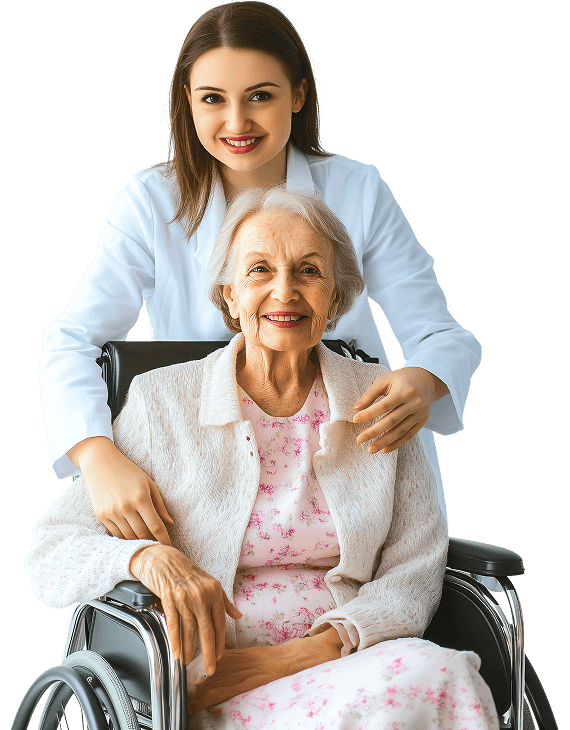
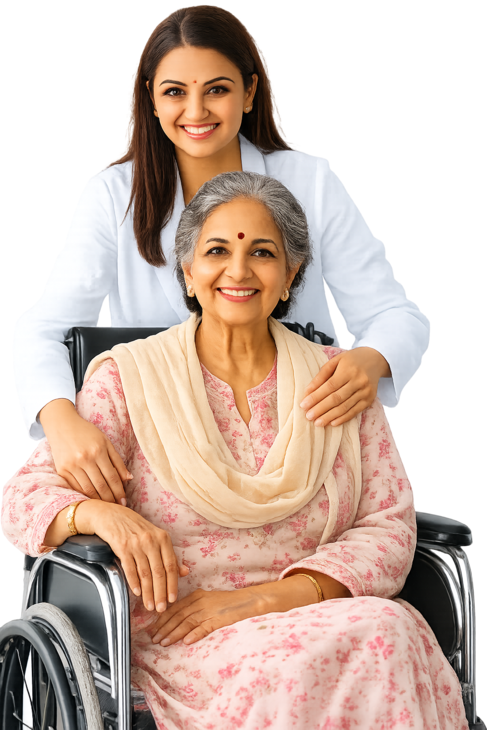
commit 6

diff --git a/index.html b/index.html
@@ -7,28 +7,28 @@
     <meta name="viewport" content="width=device-width, initial-scale=1, shrink-to-fit=no">
 
     <!-- Primary SEO -->
-    <title>Amritha Senior Living | Assisted Living & Rehabilitation Centre in Hyderabad</title>
+    <title>Amritha Elder Care | Assisted Living & Rehabilitation Centre in Hyderabad</title>
 
-    <meta name="description" content="Amritha Senior Living in Gachibowli, Hyderabad offers premium assisted living, elder care, active senior living and advanced medical rehabilitation including neurological, orthopaedic and oncology rehabilitation. Compassionate, dignified and personalized senior care.">
+    <meta name="description" content="Amritha Elder Care in Gachibowli, Hyderabad offers premium assisted living, elder care, active Elder Care and advanced medical rehabilitation including neurological, orthopaedic and oncology rehabilitation. Compassionate, dignified and personalized senior care.">
 
-    <meta name="keywords" content="Amritha Senior Living, senior living Hyderabad, assisted living Hyderabad, elder care Hyderabad, senior care home Gachibowli, rehabilitation centre Hyderabad, neurological rehabilitation, oncology rehabilitation, orthopaedic rehabilitation, active senior living, elderly care Telangana">
+    <meta name="keywords" content="Amritha Elder Care, Elder Care Hyderabad, assisted living Hyderabad, elder care Hyderabad, senior care home Gachibowli, rehabilitation centre Hyderabad, neurological rehabilitation, oncology rehabilitation, orthopaedic rehabilitation, active Elder Care, elderly care Telangana">
 
-    <meta name="author" content="Amritha Senior Living">
+    <meta name="author" content="Amritha Elder Care">
     <meta name="robots" content="index, follow">
     <link rel="canonical" href="https://www.amrithahappyaging.com/">
 
     <!-- Open Graph (Facebook / LinkedIn) -->
     <meta property="og:type" content="website">
-    <meta property="og:title" content="Amritha Senior Living | Happy Aging & Elegant Living">
-    <meta property="og:description" content="A premium senior living and rehabilitation centre in Hyderabad offering assisted living, elder care, active senior living and specialized medical rehabilitation with dignity, comfort and compassion.">
+    <meta property="og:title" content="Amritha Elder Care | Happy Aging & Elegant Living">
+    <meta property="og:description" content="A premium Elder Care and rehabilitation centre in Hyderabad offering assisted living, elder care, active Elder Care and specialized medical rehabilitation with dignity, comfort and compassion.">
     <meta property="og:url" content="https://www.amrithahappyaging.com/">
     <meta property="og:image" content="https://www.amrithahappyaging.com/assets/images/og-amritha-senior-living.jpg">
-    <meta property="og:site_name" content="Amritha Senior Living">
+    <meta property="og:site_name" content="Amritha Elder Care">
 
     <!-- Twitter Card -->
     <meta name="twitter:card" content="summary_large_image">
-    <meta name="twitter:title" content="Amritha Senior Living | Assisted Living & Rehab in Hyderabad">
-    <meta name="twitter:description" content="Premium senior living & rehabilitation centre in Gachibowli, Hyderabad. Assisted living, elder care, oncology, neurological & orthopaedic rehabilitation.">
+    <meta name="twitter:title" content="Amritha Elder Care | Assisted Living & Rehab in Hyderabad">
+    <meta name="twitter:description" content="Premium Elder Care & rehabilitation centre in Gachibowli, Hyderabad. Assisted living, elder care, oncology, neurological & orthopaedic rehabilitation.">
     <meta name="twitter:image" content="https://www.amrithahappyaging.com/assets/images/og-amritha-senior-living.jpg">
 
     <!-- Local SEO (Google) -->
@@ -42,11 +42,11 @@
     {
       "@context": "https://schema.org",
       "@type": "MedicalOrganization",
-      "name": "Amritha Senior Living",
+      "name": "Amritha Elder Care",
       "url": "https://www.amrithahappyaging.com/",
       "logo": "https://www.amrithahappyaging.com/assets/images/amritha-logo.png",
       "image": "https://www.amrithahappyaging.com/assets/images/og-amritha-senior-living.jpg",
-      "description": "Amritha Senior Living offers assisted living, elder care, active senior living and advanced rehabilitation services in Hyderabad.",
+      "description": "Amritha Elder Care offers assisted living, elder care, active Elder Care and advanced rehabilitation services in Hyderabad.",
       "address": {
         "@type": "PostalAddress",
         "streetAddress": "NTR Crest Building, Door No. 2-56/17/GF, Adj to STAR Hypermarket, Gachibowli",
@@ -263,8 +263,8 @@
             </a>
             
             <p>
-                Amritha Senior Living is a purpose-driven senior care and rehabilitation centre dedicated to 
-                happy aging and elegant living. We provide assisted living, active senior living and specialized 
+                Amritha Elder Care is a purpose-driven senior care and rehabilitation centre dedicated to 
+                happy aging and elegant living. We provide assisted living, active Elder Care and specialized 
                 medical rehabilitation in a secure, compassionate and professionally managed environment.
             </p>
         </div>
@@ -382,10 +382,10 @@
         <div class="row align-items-end">
             <div class="col-xl-6">
                 <div class="banner-content" data-group="images" data-cues="slideInUp" data-duration="900">
-                    <span class="top-title">WELCOME TO AMRITHA SENIOR LIVING</span>
+                    <span class="top-title">WELCOME TO AMRITHA ELDER CARE</span>
                     <h1>Happy Aging & <span class="word-mark">Elegant</span> Living for Seniors</h1>
                     <p>
-                        Amritha Senior Living offers premium assisted living, active senior living and advanced 
+                        Amritha Elder Care offers premium assisted living, active Elder Care and advanced 
                         medical rehabilitation in a secure, compassionate and professionally managed environment 
                         where every senior lives with dignity, comfort and peace of mind.
                     </p>
@@ -409,8 +409,8 @@
             </div>
             <div class="col-xl-6">
                 <div class="banner-img" data-group="images" data-cues="slideInUp" data-duration="900">
-                    <span class="border-text">senior living</span>
-                    <img src="assets/images/banner-img.png" alt="banner-img">
+                    <span class="border-text">Elder Care</span>
+                    <img src="assets/images/banner-img.webp" alt="banner-img">
 
                     <div class="d-flex align-items-center info">
                         <!-- <div class="flex-shrink-0">
@@ -551,7 +551,7 @@
         <span class="monogram">
             <img src="assets/images/star.png" alt="monogram">
         </span>
-        <span class="monogram">Active & Independent Senior Living</span>
+        <span class="monogram">Active & Independent Elder Care</span>
         <span class="monogram">
             <img src="assets/images/star.png" alt="monogram">
         </span>
@@ -575,7 +575,7 @@
         <span class="monogram">
             <img src="assets/images/star.png" alt="monogram">
         </span>
-        <span class="monogram">Active & Independent Senior Living</span>
+        <span class="monogram">Active & Independent Elder Care</span>
         <span class="monogram">
             <img src="assets/images/star.png" alt="monogram">
         </span>
@@ -598,7 +598,7 @@
             </div>
             <div class="col-lg-8">
                 <h2 class="main-title mb-70 ms-auto mw-975">
-                    Comprehensive Senior Living & Rehabilitation Services Delivered With 
+                    Comprehensive Elder Care & Rehabilitation Services Delivered With 
                     <span class="word-mark">Care</span> and Compassion
                 </h2>
             </div>
@@ -623,7 +623,7 @@
                         </div>
                     </div>
                     <div class="flex-grow-1">
-                        <h3>Active Senior Living</h3>
+                        <h3>Active Elder Care</h3>
                     </div>
                 </a>
                 <a href="javascript:void(0);" class="d-flex align-items-center services-single-item text-decoration-none">
@@ -648,7 +648,7 @@
                         <div class="services-content">
                             <h3>Personalized Care That Nurtures Body, Mind and Spirit</h3>
                             <p>
-                                At Amritha Senior Living, our services are thoughtfully designed to support seniors
+                                At Amritha Elder Care, our services are thoughtfully designed to support seniors
                                 through assisted living, active community life and advanced rehabilitation, ensuring
                                 comfort, safety and emotional well-being at every stage.
                             </p>
@@ -740,7 +740,7 @@
             <div class="col-lg-8">
                 <div class="mb-60">
                     <h2 class="main-title ms-auto mw-975">
-                        Redefining Senior Living Through <span class="word-mark">Care</span>, Dignity and Purpose
+                        Redefining Elder Care Through <span class="word-mark">Care</span>, Dignity and Purpose
                     </h2>
                 </div>
             </div>
@@ -756,7 +756,7 @@
             <div class="col-xl-8">
                 <div class="about-content" data-cues="slideInUp" data-duration="900">
                     <p>
-                        Amritha Senior Living is a purpose-driven senior care and rehabilitation initiative founded by
+                        Amritha Elder Care is a purpose-driven senior care and rehabilitation initiative founded by
                         experienced professionals from healthcare and allied sectors. We are committed to creating
                         a secure, elegant and emotionally uplifting environment where seniors live with confidence,
                         respect and a sense of belonging.
@@ -783,7 +783,7 @@
                             <ul class="p-0 list-unstyled about-list">
                                 <li class="d-flex align-items-center gap-12">
                                     <img src="assets/images/check.png" alt="check">
-                                    <span>Assisted and active senior living with dignity</span>
+                                    <span>Assisted and active Elder Care with dignity</span>
                                 </li>
                                 <li class="d-flex align-items-center gap-12">
                                     <img src="assets/images/check.png" alt="check">
@@ -841,7 +841,7 @@
                         <img src="assets/images/amritha-logo.png" alt="logo" style="width: 285px;">
                     </div>
                     <div class="flex-grow-1">
-                        <h3>Supporting Happy Aging Through Compassionate Senior Living</h3>
+                        <h3>Supporting Happy Aging Through Compassionate Elder Care</h3>
                     </div>
                 </div>
             </div>
@@ -851,7 +851,7 @@
                         <i class="ti ti-headphones"></i>
                         <span>+91 92475 18681</span>
                     </a>
-                    <a href="javascript:void(0);" class="default-btn active">
+                    <a href="#contact" class="default-btn active">
                         <div class="d-flex align-items-center gap-10">
                             <span>Schedule a Visit</span>
                             <img src="assets/images/right.svg" alt="right">
@@ -874,7 +874,7 @@
             </div>
             <div class="col-lg-8">
                 <h2 class="main-title ms-auto mw-975">
-                    Discover Why Families Trust Amritha Senior Living for 
+                    Discover Why Families Trust Amritha Elder Care for 
                     <span class="word-mark">Happy Aging</span>
                 </h2>
             </div>
@@ -926,7 +926,7 @@
                         <span class="count">03</span>
                     </div>
                     <div class="flex-grow-1">
-                        <h3>Active & Engaged Senior Living</h3>
+                        <h3>Active & Engaged Elder Care</h3>
                     </div>
                 </div>
                 <p>
@@ -1029,11 +1029,11 @@
                 <div class="testimonial-content" data-cues="slideInUp" data-duration="900">
                     <span class="top-title mb-3">TESTIMONIAL</span>
                     <h2 class="main-title mb-3">
-                        What Families Say About <span class="word-mark">Amritha Senior Living</span>
+                        What Families Say About <span class="word-mark">Amritha Elder Care</span>
                     </h2>
 
                     <p>
-                        Families trust Amritha Senior Living for its compassionate approach, clinical excellence
+                        Families trust Amritha Elder Care for its compassionate approach, clinical excellence
                         and dignified care. Our commitment to happy aging and personalized support creates
                         lasting peace of mind for both seniors and their loved ones.
                     </p>
@@ -1137,7 +1137,7 @@
         <div class="mb-70 mt-0 text-center" data-cues="slideInUp" data-duration="900">
             <span class="top-title mb-3" style="margin-top: 13px;">FREQUENTLY ASKED QUESTIONS</span>
             <h2 class="main-title mw-975 mx-auto">
-                Have Questions About Senior Living? Find Your <span class="word-mark">Answers</span>
+                Have Questions About Elder Care? Find Your <span class="word-mark">Answers</span>
             </h2>
         </div>
         <div class="row g-4">
@@ -1146,13 +1146,13 @@
                     <div class="accordion-item">
                         <h2 class="accordion-header">
                             <button class="accordion-button" type="button" data-bs-toggle="collapse" data-bs-target="#collapseOne" aria-expanded="true" aria-controls="collapseOne">
-                                What services are offered at Amritha Senior Living?
+                                What services are offered at Amritha Elder Care?
                             </button>
                         </h2>
                         <div id="collapseOne" class="accordion-collapse collapse show" data-bs-parent="#accordionExample">
                             <div class="accordion-body">
                                 <p>
-                                    Amritha Senior Living offers assisted living, active senior living and advanced
+                                    Amritha Elder Care offers assisted living, active Elder Care and advanced
                                     medical rehabilitation services including neurological, orthopaedic and oncology
                                     rehabilitation. All services are delivered in a secure, compassionate and
                                     professionally managed environment.
@@ -1169,7 +1169,7 @@
                         <div id="collapseTwo" class="accordion-collapse collapse" data-bs-parent="#accordionExample">
                             <div class="accordion-body">
                                 <p>
-                                    Yes. Amritha Senior Living provides 24×7 nursing care with regular medical
+                                    Yes. Amritha Elder Care provides 24×7 nursing care with regular medical
                                     supervision. Trained doctors, nurses and therapists ensure continuous health
                                     monitoring, rehabilitation support and emergency readiness.
                                 </p>
@@ -1179,13 +1179,13 @@
                     <div class="accordion-item">
                         <h2 class="accordion-header">
                             <button class="accordion-button collapsed" type="button" data-bs-toggle="collapse" data-bs-target="#collapseThree" aria-expanded="false" aria-controls="collapseThree">
-                                How do I know if senior living is the right choice?
+                                How do I know if Elder Care is the right choice?
                             </button>
                         </h2>
                         <div id="collapseThree" class="accordion-collapse collapse" data-bs-parent="#accordionExample">
                             <div class="accordion-body">
                                 <p>
-                                    Senior living is beneficial when daily activities, medical needs or emotional
+                                    Elder Care is beneficial when daily activities, medical needs or emotional
                                     well-being require additional support. Our team helps families assess individual
                                     needs and recommends care solutions that preserve independence, dignity and
                                     quality of life.
@@ -1420,7 +1420,7 @@
                             <a href="javascript:void(0);">Our Care Approach</a>
                         </li>
                         <li>
-                            <a href="javascript:void(0);">Senior Living Programs</a>
+                            <a href="javascript:void(0);">Elder Care Programs</a>
                         </li>
                         <li>
                             <a href="javascript:void(0);">Rehabilitation Services</a>
@@ -1437,7 +1437,7 @@
 
                     <ul class="import-link p-0 m-0 list-unstyled">
                         <li>
-                            <a href="javascript:void(0);">Assisted Senior Living</a>
+                            <a href="javascript:void(0);">Assisted Elder Care</a>
                         </li>
                         <li>
                             <a href="javascript:void(0);">Medical & Nursing Care</a>
@@ -1460,7 +1460,7 @@
 
                     <p>
                         Subscribe to receive updates on senior wellness, care insights and
-                        community stories from Amritha Senior Living.
+                        community stories from Amritha Elder Care.
                     </p>
 
                     <form class="position-relative z-1 mb-3">
@@ -1489,7 +1489,7 @@
     <div class="container mw-1685">
         <div class="d-flex flex-wrap gap-10 justify-content-center justify-content-lg-between align-items-center">
             <p class="mb-0">
-                © <span>Amritha Senior Living.</span> All Rights Reserved.
+                © <span>Amritha Elder Care.</span> All Rights Reserved.
             </p>
             <ul class="p-0 m-0 list-unstyled d-flex align-items-center social-link">
                 <li>
